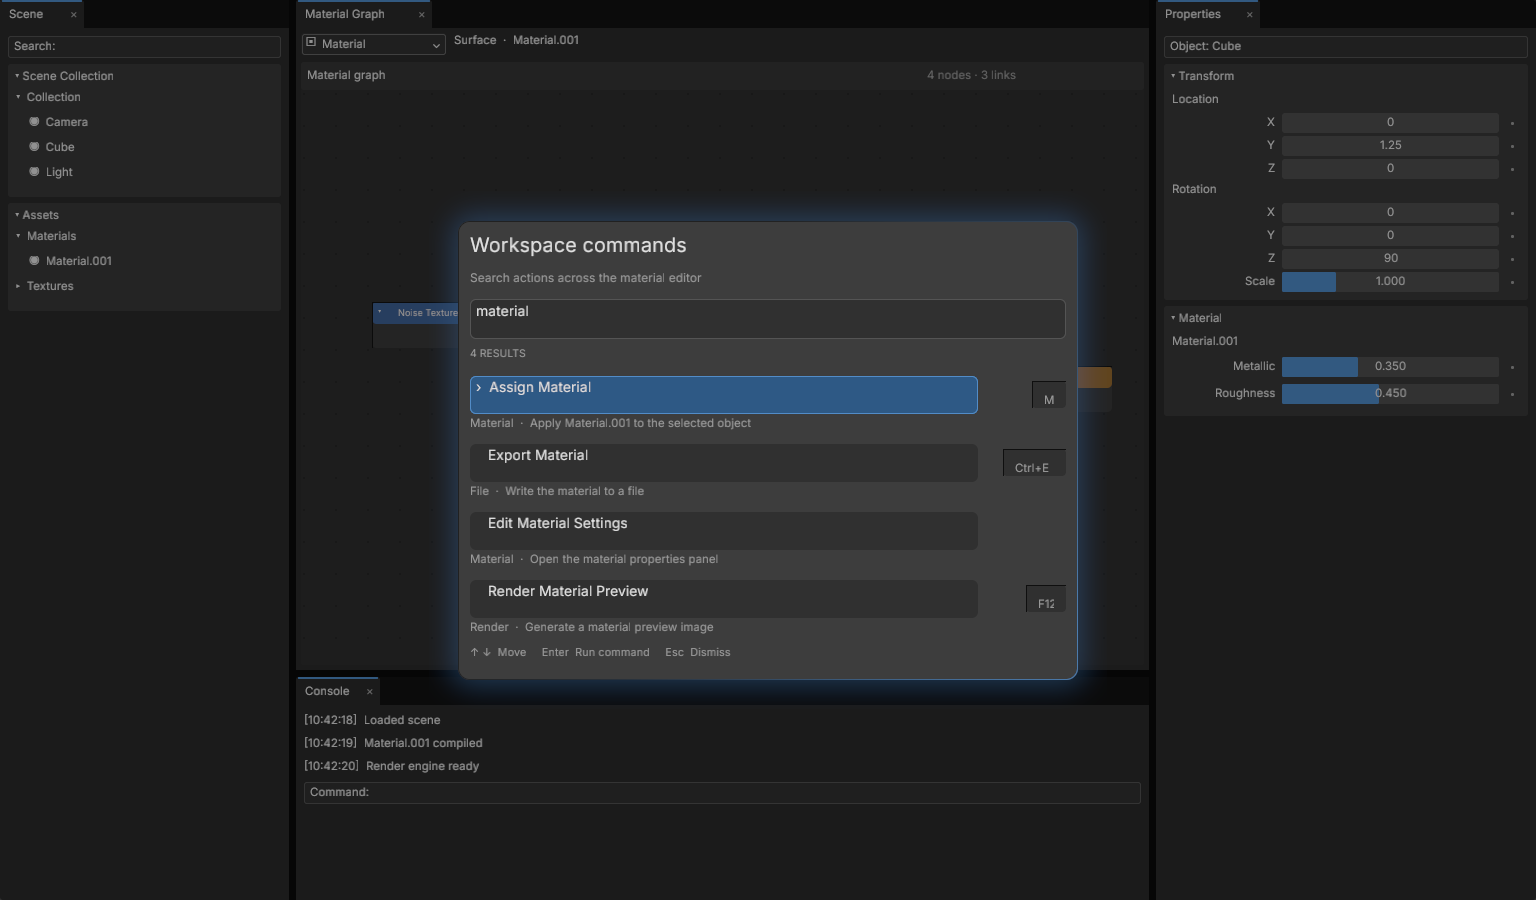
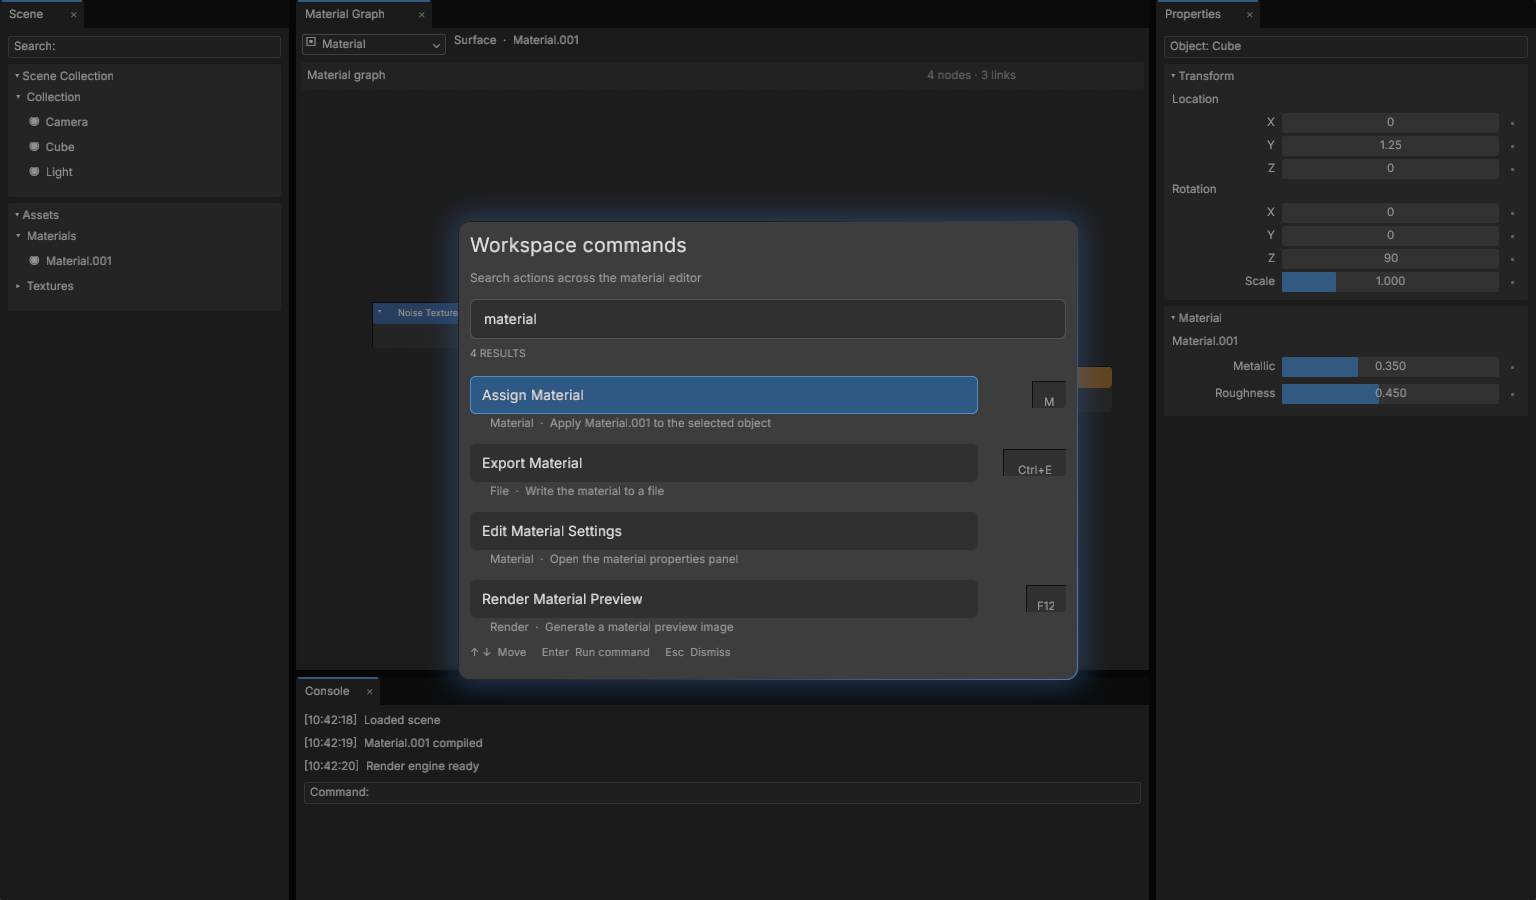
Align palette text to control baselines

diff --git a/crates/bbui_widgets/src/commands.rs b/crates/bbui_widgets/src/commands.rs
@@ -178,6 +178,7 @@ pub struct CommandPaletteAppearance {
     pub padding: UiEdges,
     pub gap: f32,
     pub row_height: f32,
+    pub result_padding_x: f32,
     pub shortcut_column_width: f32,
     pub surface_style: UiInlineStyle,
     pub title_style: UiInlineStyle,
@@ -236,6 +237,7 @@ impl Default for CommandPaletteAppearance {
             padding: UiEdges::all(22.0),
             gap: 10.0,
             row_height: 38.0,
+            result_padding_x: 12.0,
             shortcut_column_width: 80.0,
             surface_style,
             title_style: text_style(20.0, ThemeColorToken::Text),
@@ -355,6 +357,7 @@ impl CommandPalette {
             .with_accessible_name(&appearance.search_placeholder)
             .with_width(UiLength::Fill(1.0))
             .with_height(UiLength::Px(40.0))
+            .with_padding(UiEdges::all(8.0))
             .with_style(appearance.search_style.clone()),
         );
         children.push(
@@ -369,24 +372,25 @@ impl CommandPalette {
             .enumerate()
             .map(|(index, command)| {
                 let selected = index == self.selected.min(visible.saturating_sub(1));
-                let mut button = WidgetNode::button(if selected {
-                    format!("›  {}", command.label)
-                } else {
-                    format!("   {}", command.label)
-                })
-                .with_key(Self::action_key(&command.id))
-                .with_width(UiLength::Fill(1.0))
-                .with_height(UiLength::Px(appearance.row_height))
-                .with_accessible_name(if command.description.is_empty() {
-                    command.label.clone()
-                } else {
-                    format!("{}; {}", command.label, command.description)
-                })
-                .with_style(if selected {
-                    appearance.selected_style.clone()
-                } else {
-                    appearance.result_style.clone()
-                });
+                let mut button = WidgetNode::button(&command.label)
+                    .with_key(Self::action_key(&command.id))
+                    .with_role("command-palette-action")
+                    .with_width(UiLength::Fill(1.0))
+                    .with_height(UiLength::Px(appearance.row_height))
+                    .with_padding(UiEdges::horizontal_vertical(
+                        appearance.result_padding_x,
+                        0.0,
+                    ))
+                    .with_accessible_name(if command.description.is_empty() {
+                        command.label.clone()
+                    } else {
+                        format!("{}; {}", command.label, command.description)
+                    })
+                    .with_style(if selected {
+                        appearance.selected_style.clone()
+                    } else {
+                        appearance.result_style.clone()
+                    });
                 if selected && let Some(effects) = &appearance.selected_effects {
                     button = button.with_visual_effects(effects.clone());
                 }
@@ -398,9 +402,14 @@ impl CommandPalette {
                     let column_width = appearance.shortcut_column_width.max(34.0);
                     let key_width =
                         (hint.chars().count() as f32 * 7.5 + 18.0).clamp(34.0, column_width);
+                    let mut keycap_layout = UiLayoutNode::column(0.0);
+                    keycap_layout.align_items = UiAlign::Center;
+                    keycap_layout.justify_content = bbui_layout::UiJustify::Center;
                     let keycap = WidgetNode::boxed([WidgetNode::label(hint)
+                        .with_role("centered-label")
                         .with_height(UiLength::Px(16.0))
                         .with_style(appearance.shortcut_style.clone())])
+                    .with_layout(keycap_layout)
                     .with_width(UiLength::Px(key_width))
                     .with_height(UiLength::Px(27.0))
                     .with_padding(UiEdges::all(5.0))
@@ -432,9 +441,15 @@ impl CommandPalette {
                 ];
                 if !detail.is_empty() {
                     content.push(
-                        WidgetNode::label(detail)
-                            .with_height(UiLength::Px(18.0))
-                            .with_style(appearance.detail_style.clone()),
+                        WidgetNode::row([
+                            WidgetNode::column([])
+                                .with_width(UiLength::Px(appearance.result_padding_x)),
+                            WidgetNode::label(detail)
+                                .with_height(UiLength::Px(18.0))
+                                .with_style(appearance.detail_style.clone()),
+                        ])
+                        .with_width(UiLength::Fill(1.0))
+                        .with_height(UiLength::Px(18.0)),
                     );
                 }
                 WidgetNode::column(content)

diff --git a/crates/bbui_widgets/src/actions/paint/entity_menus.rs b/crates/bbui_widgets/src/actions/paint/entity_menus.rs
@@ -14,6 +14,7 @@ pub(super) fn paint_buttons_and_menus(paint: &mut PaintEntityContext<'_>) -> boo
 
     if let Some(button) = world.get::<Button>(entity).cloned() {
         let role = world.get::<UiRole>(entity).map(|role| role.0.clone());
+        let palette_action = role.as_deref() == Some("command-palette-action");
         if matches!(
             role.as_deref(),
             Some("workspace-tab" | "workspace-tab-close" | "workspace-splitter")
@@ -94,8 +95,20 @@ pub(super) fn paint_buttons_and_menus(paint: &mut PaintEntityContext<'_>) -> boo
                 clip,
                 TextPlacement {
                     origin: [
-                        rect.x + theme.spacing.control.padding_x,
-                        rect.y + theme.spacing.control.padding_y,
+                        rect.x
+                            + if palette_action {
+                                world
+                                    .get::<UiLayoutNode>(entity)
+                                    .map_or(12.0, |node| node.padding.left)
+                            } else {
+                                theme.spacing.control.padding_x
+                            },
+                        rect.y
+                            + if palette_action {
+                                ((rect.height - theme.font_size * theme.line_height) * 0.5).max(0.0)
+                            } else {
+                                theme.spacing.control.padding_y
+                            },
                     ],
                     text: button.label.clone(),
                 },

diff --git a/crates/bbui_widgets/src/actions/tests/paint_controls.rs b/crates/bbui_widgets/src/actions/tests/paint_controls.rs
@@ -1,6 +1,47 @@
 use super::*;
 
 #[test]
+pub(super) fn command_palette_action_text_is_centered_inside_its_row() {
+    let mut app = App::new();
+    app.add_plugins(WidgetPlugin);
+    let window = app.world_mut().spawn_empty().id();
+    let layout = UiLayoutNode {
+        padding: bbui_layout::UiEdges::horizontal_vertical(12.0, 0.0),
+        ..Default::default()
+    };
+    app.world_mut().spawn((
+        UiNode,
+        UiRole("command-palette-action".into()),
+        Button::new("Assign Material"),
+        layout,
+        UiLayoutResult {
+            window,
+            rect: UiRect::new(100.0, 200.0, 260.0, 38.0),
+            clip: None,
+            z: 3,
+            content_size: [260.0, 38.0],
+            dpi_scale: 1.0,
+        },
+    ));
+    app.update();
+
+    let theme = app.world().resource::<Theme>();
+    let expected_y = 200.0 + (38.0 - theme.font_size * theme.line_height) * 0.5;
+    let origin = app
+        .world()
+        .resource::<DisplayList>()
+        .widget_items()
+        .iter()
+        .find_map(|item| match &item.primitive {
+            Primitive::TextWrapped { text, origin, .. } if text == "Assign Material" => {
+                Some(*origin)
+            }
+            _ => None,
+        });
+    assert_eq!(origin, Some([112.0, expected_y]));
+}
+
+#[test]
 pub(super) fn widget_paint_uses_computed_colors_opacity_and_corner_radius() {
     let mut app = App::new();
     app.add_plugins(WidgetPlugin);

diff --git a/docs/commands.md b/docs/commands.md
@@ -4,7 +4,7 @@
 
 `CommandPalette` builds a BBUI widget tree from the registry. Its default view includes a themed surface, search field, descriptions, categories, shortcut hints, selection, and an empty state. The surface uses BBUI's `UiBorderEffect` and `UiEdgeGlow`; colors resolve from the current theme. Mount `view` inside an application overlay or shell, pass widget events to `handle_widget_event`, and reconcile the tree when the query changes. Forward unconsumed arrow, Enter, and Escape keys to `handle_key`. Both activation methods return a command ID. `CommandRegistry::menu_entries` supplies the same labels, availability, and shortcut hints to a BBUI menu.
 
-Use `view_with` and `CommandPaletteAppearance` to change copy, width, padding, spacing, row height, shortcut keycaps, every text and control style, and the selected and surface border effects. Set `surface_effects` or `selected_effects` to `None` to remove either treatment. `visible_limit` bounds both the rendered results and keyboard navigation. For an entirely different composition, build a widget tree from `CommandRegistry::ranked` and assign `CommandPalette::QUERY_KEY` and `CommandPalette::action_key(id)` to the corresponding controls; event handling remains reusable.
+Use `view_with` and `CommandPaletteAppearance` to change copy, width, padding, spacing, row height, command text inset, shortcut keycaps, every text and control style, and the selected and surface border effects. Set `surface_effects` or `selected_effects` to `None` to remove either treatment. `visible_limit` bounds both the rendered results and keyboard navigation. For an entirely different composition, build a widget tree from `CommandRegistry::ranked` and assign `CommandPalette::QUERY_KEY` and `CommandPalette::action_key(id)` to the corresponding controls; event handling remains reusable.
 
 ```rust
 let mut appearance = CommandPaletteAppearance {
